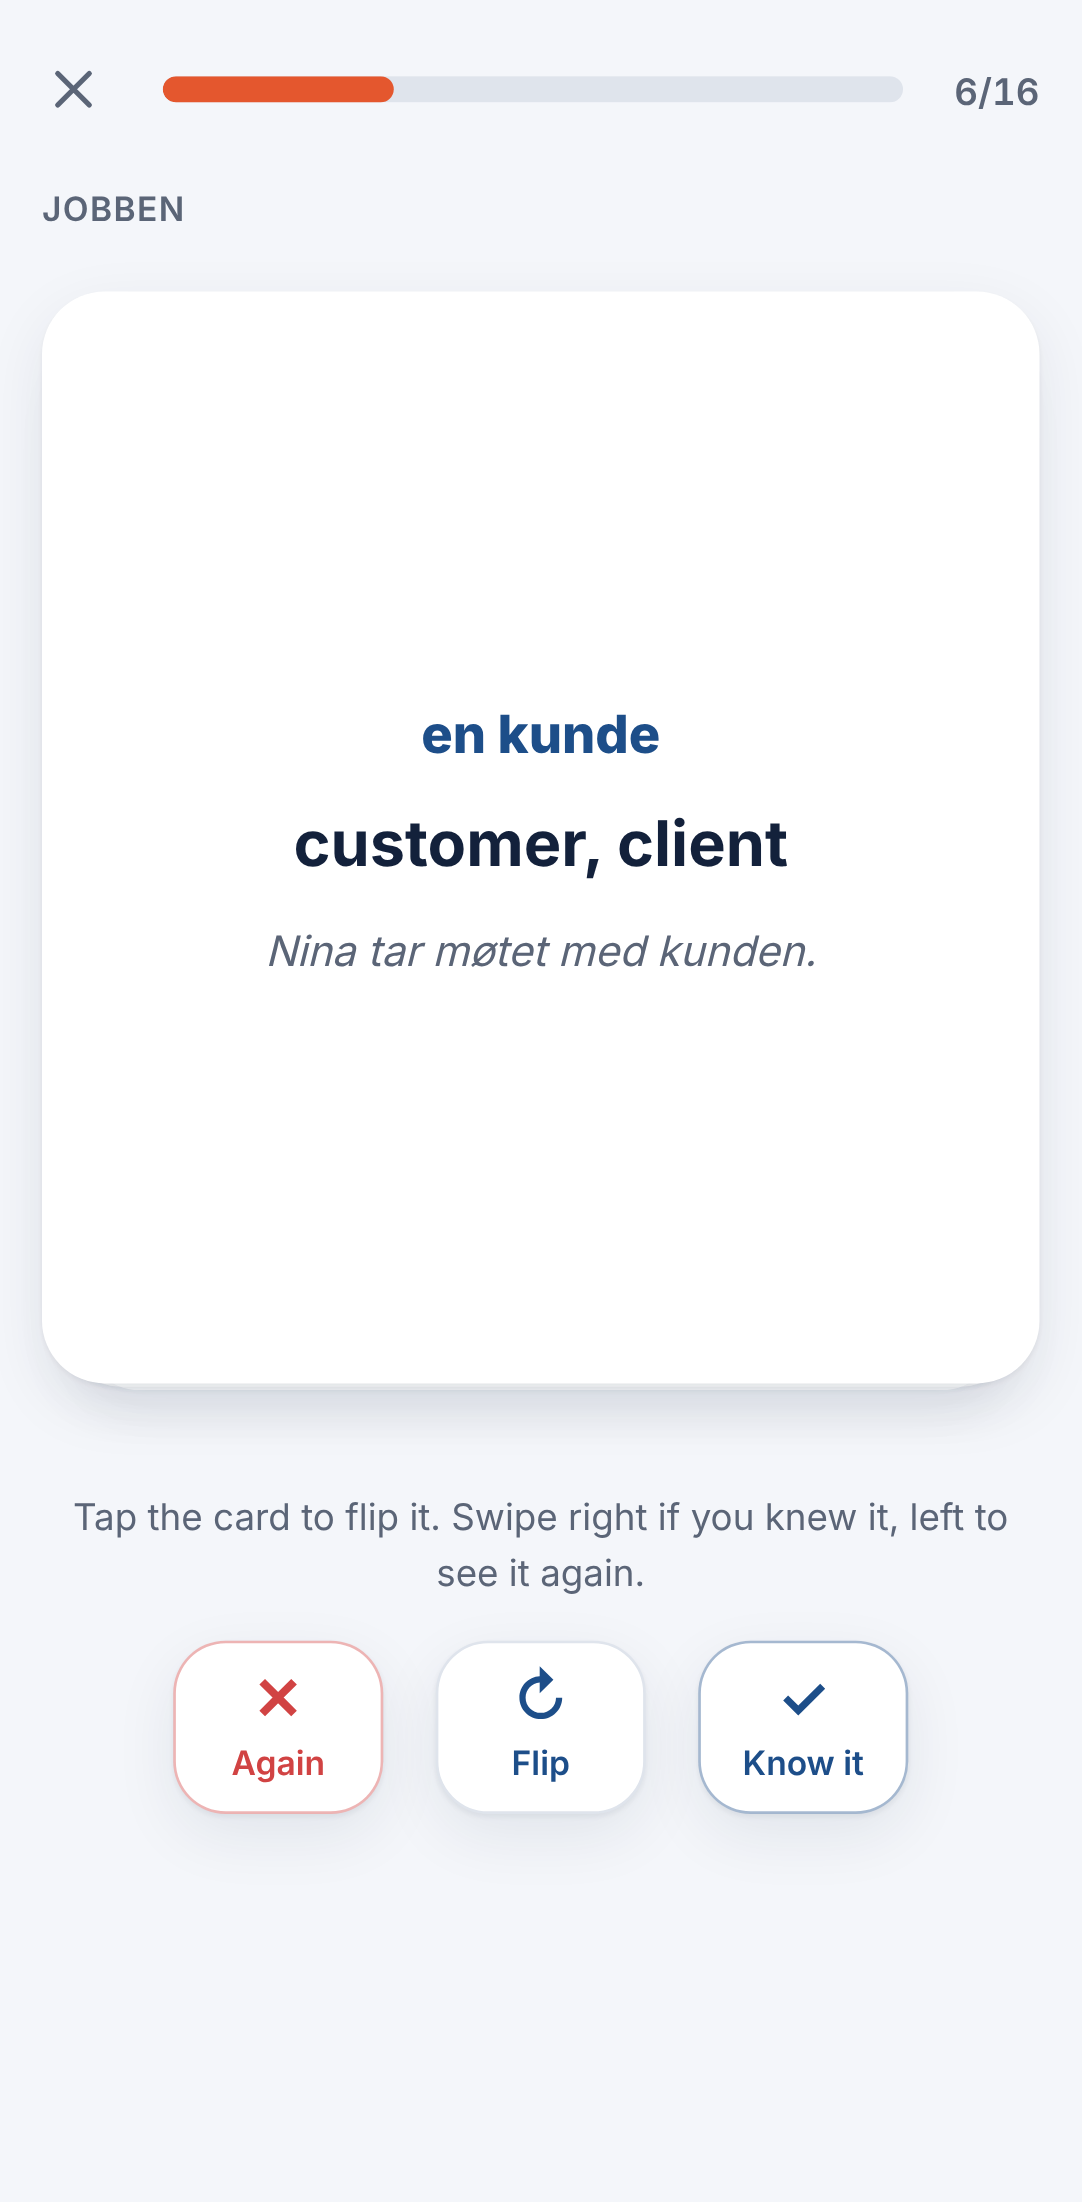
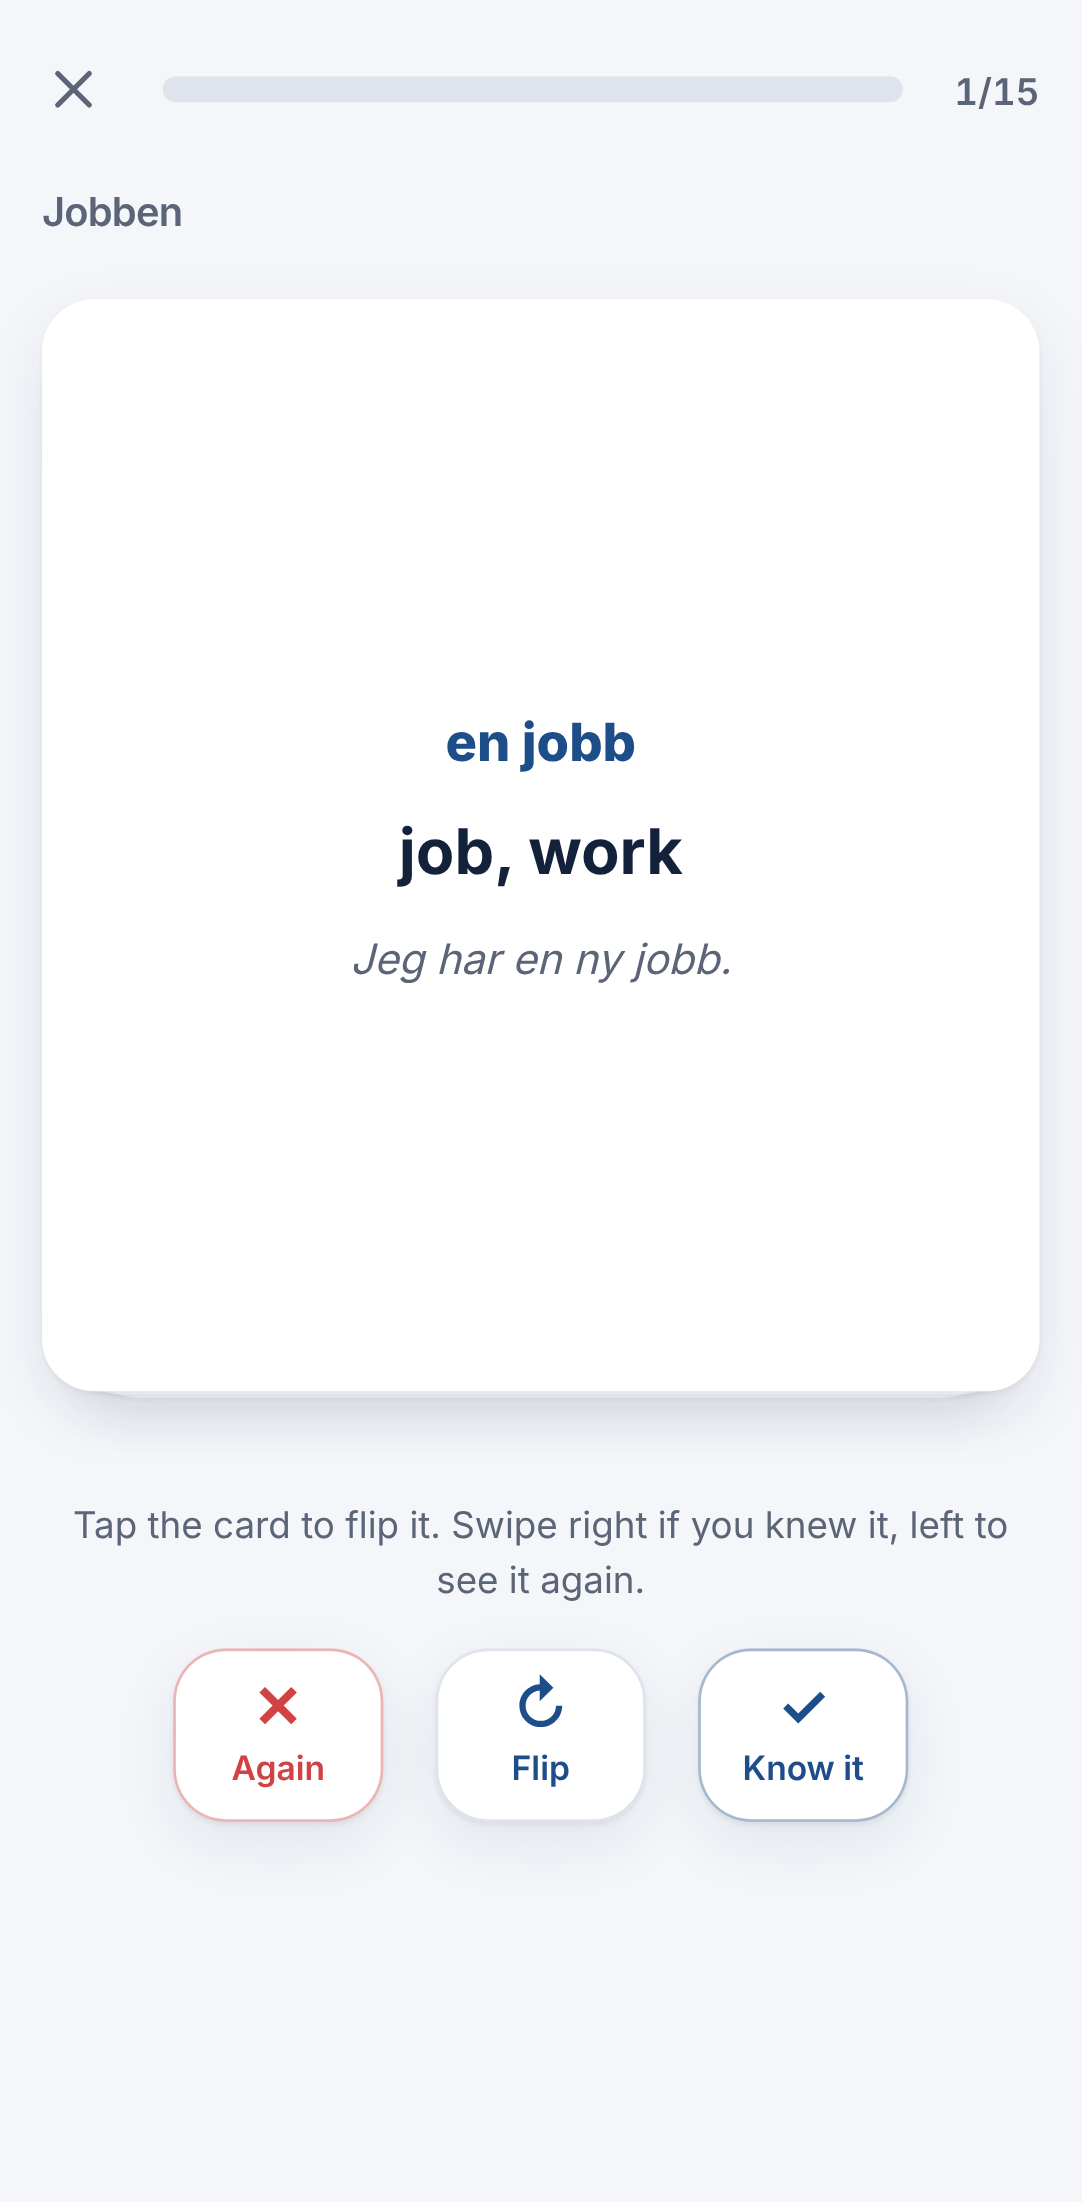
docs: record the focal-point design rules (ADR 0014)
Adds before/after screenshots under docs/design and refreshes the README screenshots.

diff --git a/docs/adr/0014-one-focal-point-per-screen.md b/docs/adr/0014-one-focal-point-per-screen.md
@@ -1,0 +1,43 @@
+# 0014. One focal point per screen
+
+- Status: Accepted
+- Date: 2026-11-25
+
+## Context
+
+Much of the interface was built quickly, and it had drifted toward the generic look of template and AI-generated UIs. Measured against a common list of those tells, Tjuvstart already avoided some (no violet gradients, its own blue and orange palette, a tinted rather than near-black dark mode, and Tusse), but had others:
+
+- Almost everything sat in a white card with the same shadow: the Today sections, every section on Me, the daily goal form, one-line messages, the lesson tips.
+- Today's quick practice was a 2×2 grid of identical tiles, each an icon, a title, a line and a "Start" link, whatever the four things actually were.
+- One radius (1rem) on cards, buttons, options and inputs.
+- Level tags and highlights as tinted pills (10% background, same hue for the text).
+- Uppercase, letter-spaced eyebrow labels above titles.
+- The lesson end screen offered two buttons of equal weight side by side.
+- A soft radial gradient on the front of the word card.
+
+The bigger problem was attention, not decoration. Type sizes were consistent, but no screen decided what mattered most. On Today, once the daily goal was met, the loudest element was "One more round", and the next lesson sat below as one more card. In a lesson, two tinted tip boxes and two bordered panels pushed the question down the screen.
+
+## Decision
+
+Each main screen has one thing the learner can't miss, and everything else gets quieter so that it can stand out.
+
+- **Today:** before the daily goal is met, the daily session is the filled block. Once it is met, the next lesson takes that place and moves to the top, with a "Start lesson" call to action, and the daily status drops to a plain section with text links.
+- **Words:** reviews due today get the filled block. With nothing due it is one line of text.
+- **Lessons:** the current track keeps a bordered surface; the others are flat sections.
+- **Lesson:** the reading text stays on a surface (it is the document being read); the glossary, look-alikes and tips are plain disclosure rows, so the question sits higher.
+- **Result:** one full-width primary button; shadowing is a link under it.
+
+Supporting rules:
+
+- Sections are separated by space and hairline rules, not by cards. A card is used only where the thing is an object (the word card, the reading text, a deck list) or is the focal point.
+- Radius follows size: 1.25rem for the focal block and the word card, 0.75rem for containers, 0.625rem for controls, 0.3rem for small labels.
+- Level tags are small outlined labels, not tinted pills. Pills stay only for chips that toggle.
+- Labels are sentence case.
+- No decorative gradients.
+
+## Consequences
+
+- A new screen needs an answer to "what is the one thing here?" before it gets styled.
+- Fewer surfaces means fewer shadows to keep consistent between light and dark mode.
+- The focal block reuses the existing hero colours, so contrast was already verified; axe now also checks Today in the goal-met state.
+- Before and after screenshots are in [`docs/design/`](../design/).

diff --git a/docs/accessibility.md b/docs/accessibility.md
@@ -4,7 +4,7 @@ Tjuvstart targets WCAG 2.2 level AA. This page records how it is checked and wha
 
 ## How it is checked
 
-- **axe-core in CI.** [`apps/web/e2e/a11y.spec.ts`](../apps/web/e2e/a11y.spec.ts) runs axe with the WCAG 2.0, 2.1 and 2.2 A/AA rules on every screen: the three onboarding steps, Today, lessons, the alphabet, word cards and a deck, Me, practice, listening, AI practice, languages, shadowing, the level check, the daily session and three exercises inside a lesson. Each screen is checked in light and dark mode, on a desktop and a phone viewport. Any violation fails the end-to-end job.
+- **axe-core in CI.** [`apps/web/e2e/a11y.spec.ts`](../apps/web/e2e/a11y.spec.ts) runs axe with the WCAG 2.0, 2.1 and 2.2 A/AA rules on every screen: the three onboarding steps, Today (before and after the daily goal is met), lessons, the alphabet, word cards and a deck, Me, practice, listening, AI practice, languages, shadowing, the level check, the daily session and three exercises inside a lesson. Each screen is checked in light and dark mode, on a desktop and a phone viewport. Any violation fails the end-to-end job.
 - **Keyboard tests.** The same file checks that a lesson can be done with the keyboard alone, that focus moves to each new question, that the feedback is read out with the Continue button, and that moving between pages focuses the new heading and updates the tab title.
 - **Lighthouse,** run by hand on twelve screens of a production build.
 - **Manual checks** for what tools can't measure: tab order, focus visibility, reflow at 320 px wide, reduced motion and `lang` attributes.

diff --git a/README.md b/README.md
@@ -14,9 +14,9 @@ _Tjuvstart_ is Norwegian for a false start: getting going before the starting si
 > Status: early development. Try it at [ismailsardi.github.io/Tjuvstart](https://ismailsardi.github.io/Tjuvstart/), and see the [product specification](docs/spec.md).
 
 <p>
-  <img src="docs/screenshots/today.png" alt="Today screen with the daily session, streak progress and the current track" width="250">
+  <img src="docs/screenshots/today.png" alt="Today screen with the next lesson as the main action, then the daily streak and quick practice" width="250">
   <img src="docs/screenshots/word-card.png" alt="A flipped word card with its meaning and an example sentence" width="250">
-  <img src="docs/screenshots/decks.png" alt="Words screen with today's review, job decks and the deck list" width="250">
+  <img src="docs/screenshots/decks.png" alt="Words screen with today's reviews, job decks and the deck list" width="250">
 </p>
 
 ## What works today
